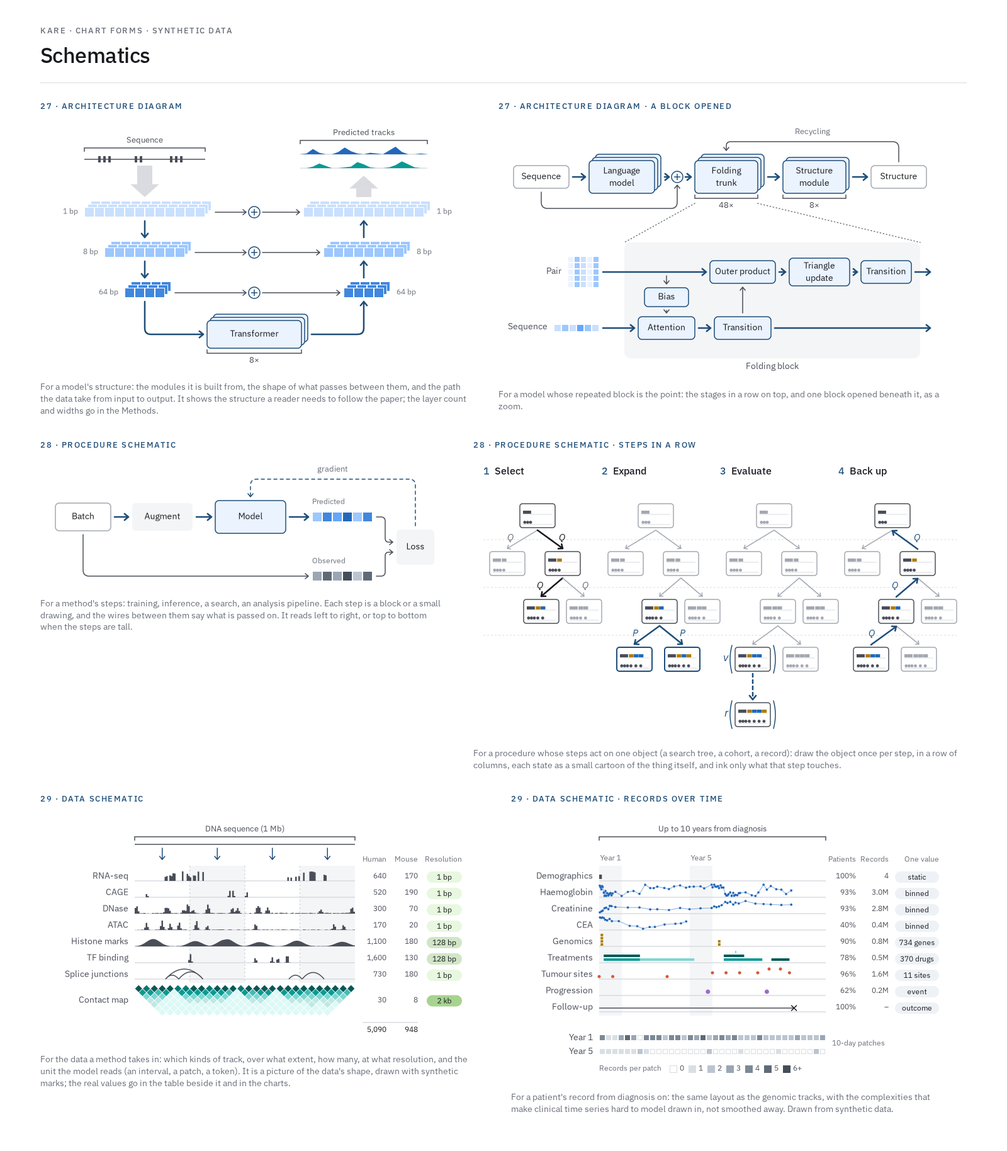
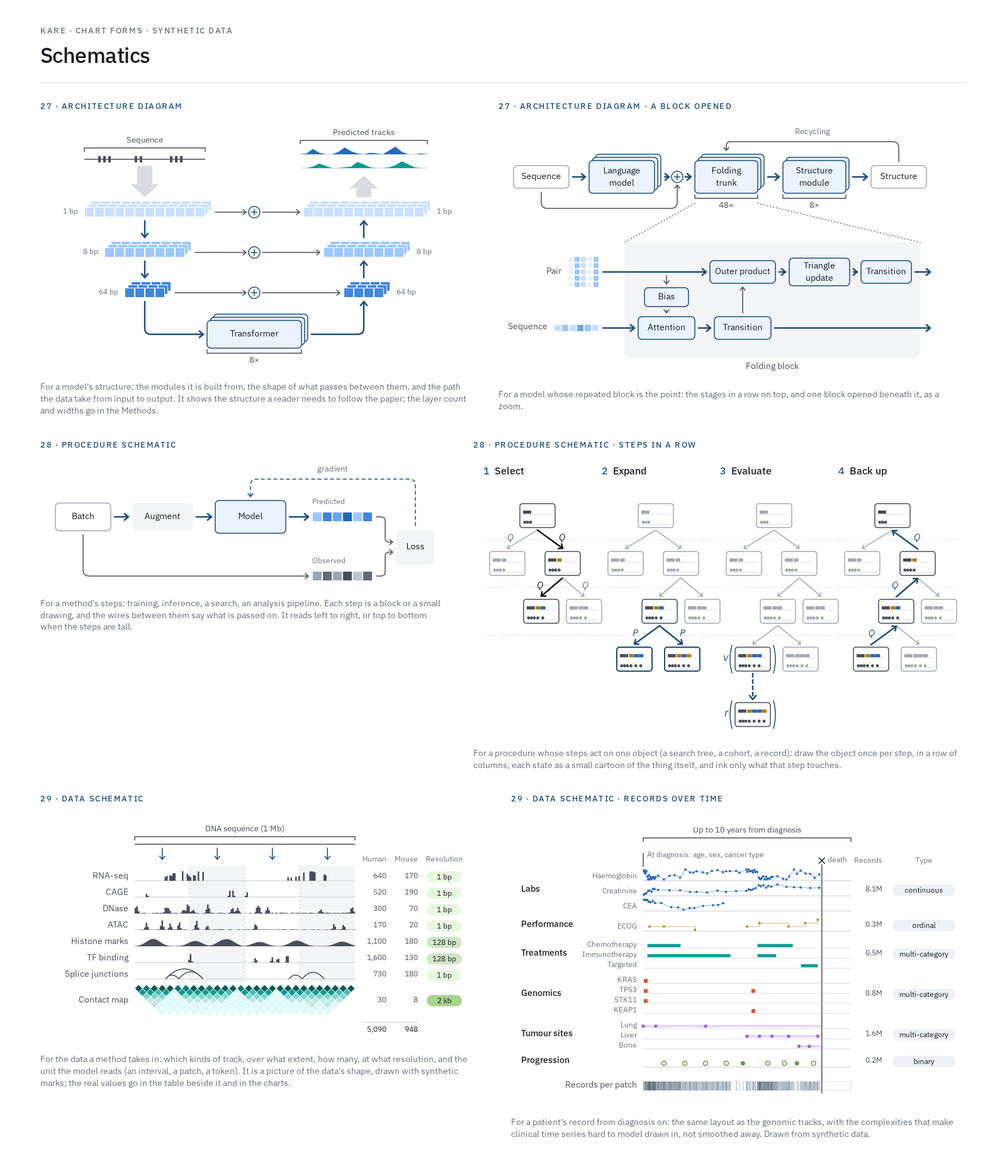
Redraw form 29's records over time: groups, data types, end of record
Demographics become an annotation at the start of the axis; treatments,
genomics and tumour sites take one compact row per category under a group
name, sites persisting once found; progression is a binary assessment
(hollow no, filled yes); the end of the record is a vertical line, solid
with an x for death or dotted with a hollow circle for censoring; records
per patch is one strip without a key; the table gives each kind its data
type. Tracks gain groups, squares, binary, persist, density, ordinal levels
and the end mark; pill columns centre their titles.

diff --git a/kit/ga-schematic.js b/kit/ga-schematic.js
@@ -211,48 +211,70 @@
       return ga.text(`*${name}*`, { x: l - 6, y: B.cy - 0.5 * GA.ROLE.math.size - 2, anchor: "end", role: "math", color: col, at: o.at });
     };
 
-    // ---- tracks: one row per kind of record on a shared axis from x to x + w.
-    //   rows: [{ name, kind, data, color }], kind:
+    // ---- tracks: rows on a shared axis from x to x + w.
+    //   rows: [{ name, kind, data, color, pitch, group }], kind:
     //     events: positions 0..1 (dots); ticks: positions 0..1 (genomic marks);
-    //     spans: [[a, b], …] (intervals); signal: values 0..1 at even steps (a smooth
-    //     profile); peaks: values 0..1 per bin (coverage, as bars); arcs: [[a, b], …]
-    //     (junctions, contacts between two positions); values: [[u, v], …] (measurements,
-    //     joined across gaps ≤ row.gap); lanes: [[a, b, lane, colour?], …] (concurrent
-    //     intervals); stacks: [[u, n], …] (n findings at one time); events may take
-    //     [u, lane] with row.lanes; follow: { from, to, end: "death" | "censor" }
+    //     squares: positions 0..1 (a categorical finding at a test); spans: [[a, b], …]
+    //     (intervals); signal: values 0..1 at even steps (a smooth profile); peaks:
+    //     values 0..1 per bin (coverage, as bars); arcs: [[a, b], …] (links between two
+    //     positions); values: [[u, v], …] (measurements, joined across gaps ≤ row.gap;
+    //     row.levels snaps them to that many ordinal levels, joined as steps);
+    //     binary: [[u, 0 | 1], …] (an assessment: hollow for no, filled for yes);
+    //     persist: { from, to, at } (a state that holds once found: a light bar from
+    //     `from` to `to`, a dot at each time in `at`); density: counts per bin (a strip
+    //     on the slate ramp, empty bins blank)
+    //   pitch per row (default o.pitch); a row of pitch < 20 is compact: tick-size name.
+    //   group: rows that share it are named once, left-aligned at o.groupX, beside them,
+    //     in label 500; the rows inside it are named in tick.
     //   patches: n dashed dividers that cut the axis into n equal patches;
     //   stripes: every other patch in wash; dividers: false drops the dashed lines
-    //   cols: [{ title, values, dx, pill }]: a table at right, one value per row, its
-    //     right edge dx from the axis end; pill: (i) => fill sets each value in a pill
+    //   end: { u, kind: "death" | "censor", label }: the end of the record, a vertical
+    //     line through the rows, solid with an x for death, dotted with a hollow
+    //     circle for censoring
+    //   cols: [{ title, values, dx, pill, w }]: a table at right, one value per row (per
+    //     group with o.groupCols), right edge dx from the axis end; pill: (i) => fill
     // Returns { rowY(i): baseline, x0, x1, top, bottom, patchX(k), colX(c) }.
     S.tracks = (o) => {
-      const pitch = o.pitch || 26, n = o.rows.length, x0 = o.x, x1 = o.x + o.w, top = o.y, bottom = o.y + n * pitch;
-      const X = (u) => f1(x0 + u * o.w), base = (i) => top + (i + 1) * pitch - 6, P = o.patches || 1;
+      const n = o.rows.length, x0 = o.x, x1 = o.x + o.w, top = o.y, P = o.patches || 1;
+      const ph = (r) => r.pitch || o.pitch || 26;
+      const tops = [];
+      let acc = top;
+      for (const r of o.rows) { tops.push(acc); acc += ph(r) + (r.gapAfter || 0); }
+      const bottom = acc;
+      const X = (u) => f1(x0 + u * o.w);
+      const base = (i) => tops[i] + ph(o.rows[i]) - (ph(o.rows[i]) < 20 ? 3 : 6);
+      const mid = (i) => base(i) - (ph(o.rows[i]) < 20 ? 4 : 6);
       let back = "", marks = "";
       if (o.stripes) for (let k = 1; k < P; k += 2) back += `<rect x="${X(k / P)}" y="${top - 4}" width="${f1(o.w / P)}" height="${bottom - top + 4}" fill="var(--wash)"/>`;
       if (o.patches && o.dividers !== false) for (let k = 1; k < P; k++) back += `<path d="M${X(k / P)} ${top - 4}V${bottom}" stroke="var(--rule)" stroke-width="1.5" stroke-dasharray="3 3"/>`;
       o.rows.forEach((row, i) => {
-        const y = base(i), col = row.color || "var(--ink-2)", H = pitch - 10;
-        back += `<path d="M${x0} ${y}H${x1}" stroke="var(--rule)" stroke-width="1.5"/>`;
-        const lane = (k) => y - 6 - (k || 0) * 6; // lanes stack upward, 6 px apart
-        if (row.kind === "events") for (const d of row.data) { const [u, k] = [].concat(d); marks += `<circle cx="${X(u)}" cy="${row.lanes ? lane(k) + 2 : y - 6}" r="${row.lanes ? 2.5 : 3.5}" fill="${col}"/>`; }
-        else if (row.kind === "lanes") for (const [a, b, k, c] of row.data) marks += `<rect x="${X(a)}" y="${lane(k) - 1}" width="${f1(Math.max(2, (b - a) * o.w))}" height="4" fill="${c || col}"/>`;
-        else if (row.kind === "stacks") for (const [u, k] of row.data) for (let j = 0; j < k; j++) marks += `<rect x="${f1(+X(u) - 2)}" y="${y - 5 - j * 5}" width="4" height="4" fill="${col}"/>`;
-        else if (row.kind === "values") {
-          // measured values: dots, joined only across short gaps, so missing time stays empty
-          // the row spans the values' own range: a schematic has no value axis
-          const vs = row.data.map((d) => d[1]), lo = Math.min(...vs), hi = Math.max(...vs), Hv = pitch - 8;
-          const gap = row.gap ?? 0.06, P2 = row.data.map(([u, v]) => [+X(u), f1(y - 2 - ((v - lo) / (hi - lo || 1)) * Hv)]);
+        const y = base(i), cy = mid(i), col = row.color || "var(--ink-2)", compact = ph(row) < 20, H = ph(row) - 10;
+        if (row.kind !== "density") back += `<path d="M${x0} ${y}H${x1}" stroke="var(--rule)" stroke-width="${compact ? 1 : 1.5}"/>`;
+        if (row.kind === "events") for (const u of row.data) marks += `<circle cx="${X(u)}" cy="${cy}" r="${compact ? 2.8 : 3.5}" fill="${col}"/>`;
+        else if (row.kind === "squares") for (const u of row.data) marks += `<rect x="${f1(+X(u) - 3)}" y="${f1(cy - 3)}" width="6" height="6" fill="${col}"/>`;
+        else if (row.kind === "binary") for (const [u, v] of row.data) marks += GA.glyph("circle", +X(u), cy, v ? { size: 8, fill: col } : { size: 7, fill: "var(--paper)", ring: col, ringW: 1.5 });
+        else if (row.kind === "persist") {
+          const { from, to, at = [] } = row.data;
+          marks += `<rect x="${X(from)}" y="${f1(cy - 2)}" width="${f1((to - from) * o.w)}" height="4" fill="${row.light || col}"/>` + at.map((u) => `<circle cx="${X(u)}" cy="${cy}" r="2.8" fill="${col}"/>`).join("");
+        } else if (row.kind === "values") {
+          // measured values: dots, joined only across short gaps, so missing time stays empty;
+          // the row spans the values' own range, as a schematic has no value axis
+          const vs = row.data.map((d) => d[1]), lo = Math.min(...vs), hi = Math.max(...vs), Hv = ph(row) - 8, L = row.levels;
+          const vy = (v) => f1(y - 2 - (L ? Math.round(((v - lo) / (hi - lo || 1)) * (L - 1)) / (L - 1) : (v - lo) / (hi - lo || 1)) * Hv);
+          const gap = row.gap ?? 0.06, P2 = row.data.map(([u, v]) => [+X(u), vy(v)]);
           let d = "";
-          P2.forEach(([px, py], j) => { d += (j && row.data[j][0] - row.data[j - 1][0] <= gap ? "L" : "M") + `${f1(px)} ${py}`; });
+          P2.forEach(([px, py], j) => {
+            const join = j && row.data[j][0] - row.data[j - 1][0] <= gap;
+            d += join ? (L ? `H${f1(px)}V${py}` : `L${f1(px)} ${py}`) : `M${f1(px)} ${py}`;
+          });
           marks += `<path d="${d}" fill="none" stroke="${col}" stroke-width="1" stroke-linejoin="round" opacity=".55"/>` + P2.map(([px, py]) => `<circle cx="${f1(px)}" cy="${py}" r="1.8" fill="${col}"/>`).join("");
-        } else if (row.kind === "follow") {
-          // follow-up from the record's start to its end: an x for death, a tick for censoring
-          const { from, to, end } = row.data, ex = +X(to), cy = y - 6;
-          marks += `<path d="M${X(from)} ${cy}H${ex}" stroke="var(--ink-2)" stroke-width="1.5"/>` + GA.glyph(end === "death" ? "x" : "tick", ex, cy, { size: 10 });
+        } else if (row.kind === "density") {
+          const bw = o.w / row.data.length, mx = Math.max(...row.data), hh = compact ? 10 : 14;
+          back += `<rect x="${x0}" y="${f1(cy - hh / 2)}" width="${o.w}" height="${hh}" fill="var(--paper)" stroke="var(--rule)" stroke-width="1"/>`;
+          row.data.forEach((c, j) => { if (c > 0) marks += `<rect x="${f1(x0 + j * bw)}" y="${f1(cy - hh / 2)}" width="${f1(bw + 0.3)}" height="${hh}" fill="var(--slate-${100 * Math.min(7, 2 + Math.round((c / mx) * 5))})"/>`; });
         }
         else if (row.kind === "ticks") for (const u of row.data) marks += `<path d="M${X(u)} ${y - 12}V${y - 1}" stroke="${col}" stroke-width="2"/>`;
-        else if (row.kind === "spans") for (const [a, b] of row.data) marks += `<rect x="${X(a)}" y="${y - 10}" width="${f1((b - a) * o.w)}" height="7" fill="${col}"/>`;
+        else if (row.kind === "spans") for (const [a, b] of row.data) marks += `<rect x="${X(a)}" y="${compact ? f1(cy - 2.5) : y - 10}" width="${f1((b - a) * o.w)}" height="${compact ? 5 : 7}" fill="${col}"/>`;
         else if (row.kind === "signal") {
           const step = o.w / (row.data.length - 1);
           marks += `<path d="M${x0} ${y}${row.data.map((v, j) => `L${f1(x0 + j * step)} ${f1(y - v * H)}`).join("")}L${x1} ${y}Z" fill="${col}"/>`;
@@ -261,16 +283,33 @@
           row.data.forEach((v, j) => { if (v > 0.02) marks += `<rect x="${f1(x0 + j * bw)}" y="${f1(y - v * H)}" width="${f1(bw)}" height="${f1(v * H)}" fill="${col}"/>`; });
         } else if (row.kind === "arcs")
           for (const [a, b] of row.data) marks += `<path d="M${X(a)} ${y}Q${f1((+X(a) + +X(b)) / 2)} ${f1(y - Math.min(2 * H, (b - a) * o.w * 0.6))} ${X(b)} ${y}" fill="none" stroke="${col}" stroke-width="1.5"/>`;
-        if (row.name) ga.text(row.name, { x: x0 - 10, y: y - 6 - LABEL * 0.6, anchor: "end", role: "label", size: o.size || LABEL, color: "var(--ink-2)", at: o.at });
+        if (row.name) {
+          // a row inside a group, or a compact one, is named in tick; its group carries the label
+          const sub = compact || row.group, size = sub ? 12 : o.size || LABEL;
+          ga.text(row.name, { x: x0 - 10, y: cy - size * 0.6, anchor: "end", role: sub ? "tick" : "label", size, color: sub ? "var(--muted)" : "var(--ink-2)", at: o.at });
+        }
       });
+      // groups: contiguous rows with one group name
+      const groups = [];
+      o.rows.forEach((r, i) => { const g = groups.at(-1); if (r.group && g && g.name === r.group) g.last = i; else groups.push({ name: r.group, first: i, last: i }); });
+      const gy = (g) => (tops[g.first] + base(g.last)) / 2;
+      for (const g of groups) if (g.name) ga.text(g.name, { x: o.groupX ?? x0 - 120, y: gy(g) - LABEL * 0.6, role: "label", size: LABEL, weight: 500, color: "var(--ink)", at: o.at });
       ga.raw(back, { at: o.at, anim: "fade", t: 0.4 });
       ga.raw(marks, { at: o.at, anim: "fade", t: 0.5 });
+      if (o.end) {
+        const ex = +X(o.end.u), death = o.end.kind === "death", gyTop = top - 14;
+        ga.raw(`<path d="M${ex} ${gyTop + 6}V${bottom}" stroke="var(--ink-2)" stroke-width="1.5"${death ? "" : ` stroke-dasharray="1.5 3" stroke-linecap="round"`}/>` +
+          (death ? GA.glyph("x", ex, gyTop, { size: 11 }) : GA.glyph("circle", ex, gyTop, { size: 9, fill: "var(--paper)", ring: "var(--ink-2)", ringW: 1.5 })), { at: o.at, anim: "fade" });
+        if (o.end.label) ga.text(o.end.label, { x: ex + 9, y: gyTop - 7, role: "tick", size: 12, color: "var(--muted)", at: o.at });
+      }
       const colX = (c) => x1 + c.dx;
+      const slots = o.groupCols ? groups.map((g) => gy(g)) : o.rows.map((_, i) => mid(i));
       for (const c of o.cols || []) {
-        ga.text(c.title, { x: colX(c), y: top - 20, anchor: "end", role: "tick", size: 12, color: "var(--muted)", at: o.at });
+        // a pill column's title centres over its pills
+        ga.text(c.title, { x: c.pill ? colX(c) - (c.w || 50) / 2 : colX(c), y: top - 20, anchor: c.pill ? "middle" : "end", role: "tick", size: 12, color: "var(--muted)", at: o.at });
         c.values.forEach((v, i) => {
           if (v === null || v === undefined) return;
-          const cy = base(i) - 6;
+          const cy = slots[i];
           if (c.pill) ga.pill(String(v), { cx: colX(c) - (c.w || 50) / 2, cy, w: c.w || 50, h: 18, role: "tick", size: 12, fill: c.pill(i), color: "var(--ink)", at: o.at });
           else ga.text(String(v), { x: colX(c), y: cy - 12 * 0.6, anchor: "end", role: "tick", size: 12, color: "var(--ink-2)", at: o.at });
         });

diff --git a/core/charts/forms/29-data-schematic.md b/core/charts/forms/29-data-schematic.md
@@ -4,7 +4,7 @@ name: Data schematic
 kind: schematic
 family: schematic
 job: ["What data a method takes in: their kinds, extent, counts and the unit it reads"]
-kit: [GA.schematic.tracks, GA.schematic.contact, GA.schematic.bracket, GA.schematic.wire, GA.schematic.cells]
+kit: [GA.schematic.tracks, GA.schematic.contact, GA.schematic.bracket, GA.schematic.wire]
 sources: ["Avsec et al., Nature 2026, Fig. 1a", "Linder et al., Nature Genetics 2025, Fig. 1a"]
 see_also: [form-27, form-28, form-17]
 ---
@@ -84,93 +84,78 @@ ga.text("948", { x: T.colX({ dx: 100 }), y: ty + 6, anchor: "end", role: "tick",
 
 ## Records over time
 
-For a patient's record from diagnosis on: the same layout as the genomic tracks, with
-the complexities that make clinical time series hard to model drawn in, not smoothed
-away. Drawn from synthetic data.
+For a patient's record from diagnosis on: the same layout as the genomic tracks,
+with the complexities that make clinical time series hard to model drawn in, not
+smoothed away. Drawn from synthetic data.
 
-- **Each kind of record keeps its own shape and sampling.** Labs are measured values
-  at irregular times: dense around diagnosis and each new line of therapy, sparse
-  between, joined only across short gaps so missing time stays empty, and some stop
-  being measured. Each value row spans its own range; there is no value axis.
-  Treatments are concurrent intervals in lanes, one per drug, in steps of the
-  treatment hue. Genomic findings come several at a time, stacked at the test. Sites
-  recur in lanes, one per site. Demographics are one value at entry.
-- **Colour is the kind of record**, identity slots in order (`../../color.md`);
-  shades within a kind tell its items apart.
-- **The record ends** on a follow-up line, `ink-2` from the first record to the
-  last contact, closed by an x for death or a tick for censoring (*Glyphs*); the
-  axis beyond it is empty.
-- **The table** gives each kind the share of patients who have it, its records,
-  and what one value is, in a `slate-100` pill ("binned", "370 drugs").
-- **The unit the model reads opens beneath**: two years in wash, a busy one and a
-  quiet one, each as a row of its 10-day patches, cells on a neutral ramp (`slate`)
-  by the number of records in each and an empty patch as paper in a `rule`
-  outline, so the reader sees how unevenly the record fills its patches.
+- **Rows are grouped by kind of record**, the kind named once at the left in `label`
+  at 500, and each row named beside the axis in `tick`. A categorical kind takes
+  one compact 16 px row per category, so it reads as categories, not as one track.
+- **Each kind keeps its own shape and sampling.** Labs are measured values at
+  irregular times, dense around diagnosis and each new line of therapy, joined only
+  across short gaps so missing time stays empty; some stop being measured. Each
+  value row spans its own range; there is no value axis. An ordinal score snaps to
+  its levels and steps between them. Treatments are intervals, one row per drug
+  class, overlapping when given together. A genomic finding is a square at its
+  test. A tumour site holds once found: a light bar from the first finding to the
+  end of the record, a dot at each mention. A binary assessment is a hollow circle
+  for no and a filled one for yes.
+- **Colour is the kind of record**, identity slots in order (`../../color.md`).
+- **What holds for the whole record is an annotation, not a track**: demographics
+  at diagnosis are a short mark and a `tick` note at the start of the axis.
+- **The end of the record is a vertical line through every row**: solid with an x
+  for death, dotted with a hollow circle for censoring (*Glyphs*); the axis beyond it
+  stays empty.
+- **Records per patch** is one strip under the rows, the 10-day patches the model
+  reads on the `slate` ramp, empty patches blank, with no key: darker is more.
+- **The table** gives each kind its records and its data type in a `slate-100`
+  pill: continuous, ordinal, categorical, multi-category, binary.
 
-![A synthetic patient's record over ten years: three labs sampled irregularly, concurrent treatments in lanes, stacked genomic findings, recurring sites, progression and death; a table of coverage, records and value types; years 1 and 5 opened into 36 ten-day patches each, shaded by records per patch](out/29-data-schematic.records-over-time.png)
+![A synthetic patient's record over ten years: three labs and a performance score sampled irregularly, treatments, genomic findings and tumour sites as one row per category, binary progression assessments, the record ending in death; records per 10-day patch as one strip; a table of records and data types](out/29-data-schematic.records-over-time.png)
 
-```js figure=records-over-time w=700 h=440
+```js figure=records-over-time w=722 h=480
 const S = GA.schematic(ga);
-const X = 140, W = 360, rnd = GA.rng(17);
-// --- synthetic record (no patient data): times are fractions of ten years
+const X = 210, W = 330, rnd = GA.rng(17), END = 0.86;
+// --- a synthetic record (no patient data); times are fractions of ten years
 const times = (segs) => segs.flatMap(([a, b, st]) => { const t = []; for (let u = a + st * rnd(); u < b; u += st * (0.6 + 0.8 * rnd())) t.push(u); return t; });
 const onTx = (u) => (u > 0.02 && u < 0.18) || (u > 0.55 && u < 0.72);
-const hgbT = times([[0, 0.06, 0.004], [0.06, 0.5, 0.024], [0.5, 0.62, 0.006], [0.62, 0.86, 0.02]]);
 const clip = (v) => Math.max(0, Math.min(1, v));
+const hgbT = times([[0, 0.06, 0.004], [0.06, 0.5, 0.024], [0.5, 0.62, 0.006], [0.62, END, 0.02]]);
 const hgb = hgbT.map((u) => [u, clip(0.7 - (onTx(u) ? 0.35 : 0) - (u > 0.74 ? 0.35 * (u - 0.74) / 0.12 : 0) + 0.3 * (rnd() - 0.5))]);
 const cre = hgbT.filter((_, i) => i % 2 === 0).map((u) => [u, clip(0.15 + 0.6 * u + (onTx(u) ? 0.2 : 0) + 0.25 * (rnd() - 0.5))]);
 const cea = times([[0, 0.05, 0.008], [0.05, 0.42, 0.035]]).map((u) => [u, clip((u < 0.2 ? 0.95 - 3.5 * u : 0.25 + 2.5 * (u - 0.2)) + 0.15 * (rnd() - 0.5))]);
-const tc = (k) => tok(`teal-${k}`);
-const tx = [[0.02, 0.18, 0, tc(500)], [0.02, 0.18, 1, tc(700)], [0.18, 0.42, 0, tc(300)], [0.55, 0.72, 0, tc(500)], [0.55, 0.64, 1, tc(700)], [0.6, 0.605, 2, tc(300)], [0.76, 0.84, 0, tc(700)]];
-const gen = [[0.012, 4], [0.53, 2]];
-const sites = [[0, 0], [0.06, 0], [0.3, 0], [0.5, 1], [0.56, 1], [0.62, 1], [0.7, 1], [0.75, 2], [0.8, 2], [0.84, 1]];
-const prog = [0.48, 0.74], end = 0.86;
-// --- two years opened beneath, in wash under the tracks: a busy one and a quiet one
-const Y0 = 94, pitch = 26, rowsN = 9, bottom = Y0 + rowsN * pitch, YEARS = [0, 4];
-for (const yr of YEARS) {
-  ga.raw(`<rect x="${X + (yr * W) / 10}" y="${Y0 - 4}" width="${W / 10}" height="${bottom - Y0 + 4}" fill="var(--wash)"/>`);
-  ga.text(`Year ${yr + 1}`, { x: X + ((yr + 0.5) * W) / 10, y: Y0 - 22, anchor: "middle", role: "tick", size: 12, color: "var(--muted)" });
-}
-S.bracket({ x0: X, x1: X + W, y: 44, side: "top", label: "Up to 10 years from diagnosis" });
-const T = S.tracks({ x: X, y: Y0, w: W, pitch, rows: [
-  { name: "Demographics", kind: "spans", color: "var(--ink-2)", data: [[0, 0.012]] },
-  { name: "Haemoglobin", kind: "values", color: "var(--cat-1)", data: hgb },
-  { name: "Creatinine", kind: "values", color: "var(--cat-1)", data: cre },
-  { name: "CEA", kind: "values", color: "var(--cat-1)", data: cea },
-  { name: "Genomics", kind: "stacks", color: "var(--cat-2)", data: gen },
-  { name: "Treatments", kind: "lanes", color: "var(--cat-3)", data: tx },
-  { name: "Tumour sites", kind: "events", lanes: 3, color: "var(--cat-4)", data: sites },
-  { name: "Progression", kind: "events", color: "var(--cat-5)", data: prog },
-  { name: "Follow-up", kind: "follow", data: { from: 0, to: end, end: "death" } },
-], cols: [
-  { title: "Patients", dx: 48, values: ["100%", "93%", "93%", "40%", "90%", "78%", "96%", "62%", "100%"] },
-  { title: "Records", dx: 100, values: ["4", "3.0M", "2.8M", "0.4M", "0.8M", "0.5M", "1.6M", "0.2M", "–"] },
-  { title: "One value", dx: 180, w: 70, values: ["static", "binned", "binned", "binned", "734 genes", "370 drugs", "11 sites", "event", "outcome"], pill: () => tok("slate-100") },
-] });
-// --- each opened year in 10-day patches, shaded by records per patch
-const P = 36, cell = W / P;
-// an empty patch is paper in a rule outline; a filled one a step of the slate ramp
-const shade = (n) => tok(`slate-${[200, 300, 400, 500, 600, 700][Math.min(5, n - 1)]}`);
-const patch = (x, y, s, n) => n ? `<rect x="${x + 1}" y="${y + 1}" width="${s - 2}" height="${s - 2}" fill="${shade(n)}"/>`
-  : `<rect x="${x + 1.5}" y="${y + 1.5}" width="${s - 3}" height="${s - 3}" fill="var(--paper)" stroke="var(--rule)" stroke-width="1"/>`;
-let py = bottom + 30;
-for (const yr of YEARS) {
-  const lo = (j) => yr / 10 + (j / P) * 0.1, hi = (j) => lo(j + 1), inP = (u, j) => u >= lo(j) && u < hi(j);
-  const count = (j) => [...hgb, ...cre, ...cea].filter(([u]) => inP(u, j)).length + gen.filter(([u]) => inP(u, j)).reduce((n, [, k]) => n + k, 0)
-    + sites.filter(([u]) => inP(u, j)).length + prog.filter((u) => inP(u, j)).length + tx.filter(([a, b]) => a < hi(j) && b > lo(j)).length + (yr === 0 && j === 0 ? 1 : 0);
-  ga.raw(Array.from({ length: P }, (_, j) => patch(X + j * cell, py, cell, count(j))).join(""));
-  ga.text(`Year ${yr + 1}`, { x: X - 10, y: py - 2, anchor: "end", role: "label", size: 14, color: "var(--ink-2)" });
-  py += cell + 12;
-}
-ga.text("10-day patches", { x: X + W + 10, y: bottom + 30 + cell / 2 + 3, role: "tick", size: 12, color: "var(--muted)" });
-// key: records per patch
-const ky = py + 4;
-ga.text("Records per patch", { x: X, y: ky, role: "tick", size: 12, color: "var(--muted)" });
-["0", "1", "2", "3", "4", "5", "6+"].forEach((t, k) => {
-  const kx = X + 112 + k * 30;
-  ga.raw(patch(kx - 1, ky, 14, k));
-  ga.text(t, { x: kx + 16, y: ky, role: "tick", size: 12, color: "var(--ink-2)" });
+const ecog = [[0.03, 1], [0.1, 1], [0.25, 0], [0.5, 1], [0.56, 2], [0.7, 1], [0.78, 2], [0.84, 3]];
+const tx = { Chemotherapy: [[0.02, 0.18], [0.55, 0.72]], Immunotherapy: [[0.02, 0.42], [0.55, 0.64]], Targeted: [[0.76, 0.84]] };
+const gen = { KRAS: [0.012], TP53: [0.012, 0.53], STK11: [0.012], KEAP1: [0.53] };
+const sites = { Lung: { from: 0, to: END, at: [0, 0.06, 0.3] }, Liver: { from: 0.5, to: END, at: [0.5, 0.56, 0.62, 0.7, 0.84] }, Bone: { from: 0.75, to: END, at: [0.75, 0.8] } };
+const prog = [[0.1, 0], [0.2, 0], [0.3, 0], [0.4, 0], [0.48, 1], [0.6, 0], [0.68, 0], [0.74, 1], [0.82, 0]];
+// records per 10-day patch, over every row above
+const NP = 365, all = [...hgb, ...cre, ...cea, ...ecog, ...prog].map(([u]) => u).concat(Object.values(gen).flat(), Object.values(sites).flatMap((x) => x.at));
+const density = Array.from({ length: NP }, (_, j) => {
+  const lo = j / NP, hi = (j + 1) / NP;
+  return all.filter((u) => u >= lo && u < hi).length + Object.values(tx).flat().filter(([a, b]) => a < hi && b > lo).length;
 });
+const c = (k) => `var(--cat-${k})`, G = 8;
+const rows = [
+  { group: "Labs", name: "Haemoglobin", kind: "values", color: c(1), data: hgb, pitch: 24 },
+  { group: "Labs", name: "Creatinine", kind: "values", color: c(1), data: cre, pitch: 24 },
+  { group: "Labs", name: "CEA", kind: "values", color: c(1), data: cea, pitch: 24, gapAfter: G },
+  { group: "Performance", name: "ECOG", kind: "values", levels: 4, gap: 0.2, color: c(2), data: ecog, pitch: 24, gapAfter: G },
+  ...Object.entries(tx).map(([k, d], i, a) => ({ group: "Treatments", name: k, kind: "spans", color: c(3), data: d, pitch: 16, gapAfter: i === a.length - 1 ? G : 0 })),
+  ...Object.entries(gen).map(([k, d], i, a) => ({ group: "Genomics", name: k, kind: "squares", color: c(4), data: d, pitch: 16, gapAfter: i === a.length - 1 ? G : 0 })),
+  ...Object.entries(sites).map(([k, d], i, a) => ({ group: "Tumour sites", name: k, kind: "persist", color: c(5), light: tok("violet-200"), data: d, pitch: 16, gapAfter: i === a.length - 1 ? G : 0 })),
+  { group: "Progression", kind: "binary", color: c(6), data: prog, pitch: 24, gapAfter: 16 },
+  { name: "Records per patch", kind: "density", data: density, pitch: 20 },
+];
+const top = 96;
+S.bracket({ x0: X, x1: X + W, y: top - 50, side: "top", label: "Up to 10 years from diagnosis" });
+// demographics: an annotation at the start of the axis, not a track
+ga.raw(`<path d="M${X} ${top - 26}V${top - 4}" stroke="var(--ink-2)" stroke-width="1.5"/>`);
+ga.text("At diagnosis: age, sex, cancer type", { x: X + 6, y: top - 29, role: "tick", size: 12, color: "var(--muted)" });
+S.tracks({ x: X, y: top, w: W, groupX: 16, groupCols: true, rows, end: { u: END, kind: "death", label: "death" }, cols: [
+  { title: "Records", dx: 50, values: ["8.1M", "0.3M", "0.5M", "0.8M", "1.6M", "0.2M", null] },
+  { title: "Type", dx: 166, w: 100, values: ["continuous", "ordinal", "multi-category", "multi-category", "multi-category", "binary", null], pill: () => tok("slate-100") },
+] });
 ```
 
 ## In each format
@@ -183,5 +168,6 @@ ga.text("Records per patch", { x: X, y: ky, role: "tick", size: 12, color: "var(
 | Coverage bar, profile | row pitch 26 px, peak 16 px | 3 mm pitch, peak 1.8 mm |
 | Contact cell | 12–13 px across | 1.2–1.5 mm |
 | Resolution or value pill | 18 px tall, 12 px text | 2 mm, 5–6 pt |
-| Lab value / lane | r 1.8 dot, 1 px join / 4 px lane, 6 px pitch | r 0.6 pt, 0.35 pt / 0.5 mm, 0.7 mm pitch |
+| Lab value; category row | r 1.8 dot, 1 px join; 16 px row, 12 px name | r 0.6 pt, 0.35 pt; 1.8 mm row, 5 pt name |
+| End of record | 1.5 px line, solid with an x (death) or dotted with a hollow circle (censored) | 0.5 pt |
 | Field cell | 16 px, 2 px paper gap | 1.6–2 mm, 0.5 pt gap |

diff --git a/INDEX.md b/INDEX.md
@@ -54,7 +54,7 @@ GENERATED by `tools/index.mjs` (`npm run check`). Edit the files it lists, not t
 | 26 · Unit columns | composition | [26-unit-columns.md](core/charts/forms/26-unit-columns.md) | [main](core/charts/forms/out/26-unit-columns.main.png) | `ch.units` |
 | 27 · Architecture diagram | schematic | [27-architecture-diagram.md](core/charts/forms/27-architecture-diagram.md) | [main](core/charts/forms/out/27-architecture-diagram.main.png), [a-block-opened](core/charts/forms/out/27-architecture-diagram.a-block-opened.png) | `GA.schematic.block`, `GA.schematic.cells`, `GA.schematic.op`, `GA.schematic.wire`, `GA.schematic.flow`, `GA.schematic.bracket`, `GA.schematic.tracks`, `GA.schematic.panel`, `GA.schematic.grid` |
 | 28 · Procedure schematic | schematic | [28-procedure-schematic.md](core/charts/forms/28-procedure-schematic.md) | [main](core/charts/forms/out/28-procedure-schematic.main.png), [steps-in-a-row](core/charts/forms/out/28-procedure-schematic.steps-in-a-row.png) | `GA.schematic.block`, `GA.schematic.cells`, `GA.schematic.wire`, `GA.schematic.port`, `GA.schematic.step`, `GA.schematic.state`, `GA.schematic.fn` |
-| 29 · Data schematic | schematic | [29-data-schematic.md](core/charts/forms/29-data-schematic.md) | [main](core/charts/forms/out/29-data-schematic.main.png), [records-over-time](core/charts/forms/out/29-data-schematic.records-over-time.png) | `GA.schematic.tracks`, `GA.schematic.contact`, `GA.schematic.bracket`, `GA.schematic.wire`, `GA.schematic.cells` |
+| 29 · Data schematic | schematic | [29-data-schematic.md](core/charts/forms/29-data-schematic.md) | [main](core/charts/forms/out/29-data-schematic.main.png), [records-over-time](core/charts/forms/out/29-data-schematic.records-over-time.png) | `GA.schematic.tracks`, `GA.schematic.contact`, `GA.schematic.bracket`, `GA.schematic.wire` |
 
 ### By family
 

diff --git a/kit/README.md b/kit/README.md
@@ -96,6 +96,6 @@ plot, left-aligned at `yTitleX`.
 | `oncoprint` | Heatmap with categorical cells, the oncoprint ([07](../core/charts/forms/07-heatmap.md)) |
 | `GA.schematic` → `block`, `cells`, `op`, `wire`, `port`, `flow`, `bracket`; `panel`, `grid` for a block opened | Architecture diagram ([27](../core/charts/forms/27-architecture-diagram.md)) |
 | `GA.schematic` → `step`, `state`, `fn`, with `block`, `cells`, `wire` | Procedure schematic ([28](../core/charts/forms/28-procedure-schematic.md)) |
-| `GA.schematic` → `tracks` (`peaks`, `signal`, `arcs`, `ticks`, `events`, `spans`, `values`, `lanes`, `stacks`, `follow`; `stripes`, pill columns), `contact`, with `bracket`, `cells` | Data schematic ([29](../core/charts/forms/29-data-schematic.md)) |
+| `GA.schematic` → `tracks` (`peaks`, `signal`, `arcs`, `ticks`, `events`, `spans`, `squares`, `values` with `levels`, `binary`, `persist`, `density`; groups, `stripes`, `end`, pill columns), `contact`, with `bracket`, `cells` | Data schematic ([29](../core/charts/forms/29-data-schematic.md)) |
 
 The chart forms' figure blocks (`../core/charts/forms/`) use every mark.
